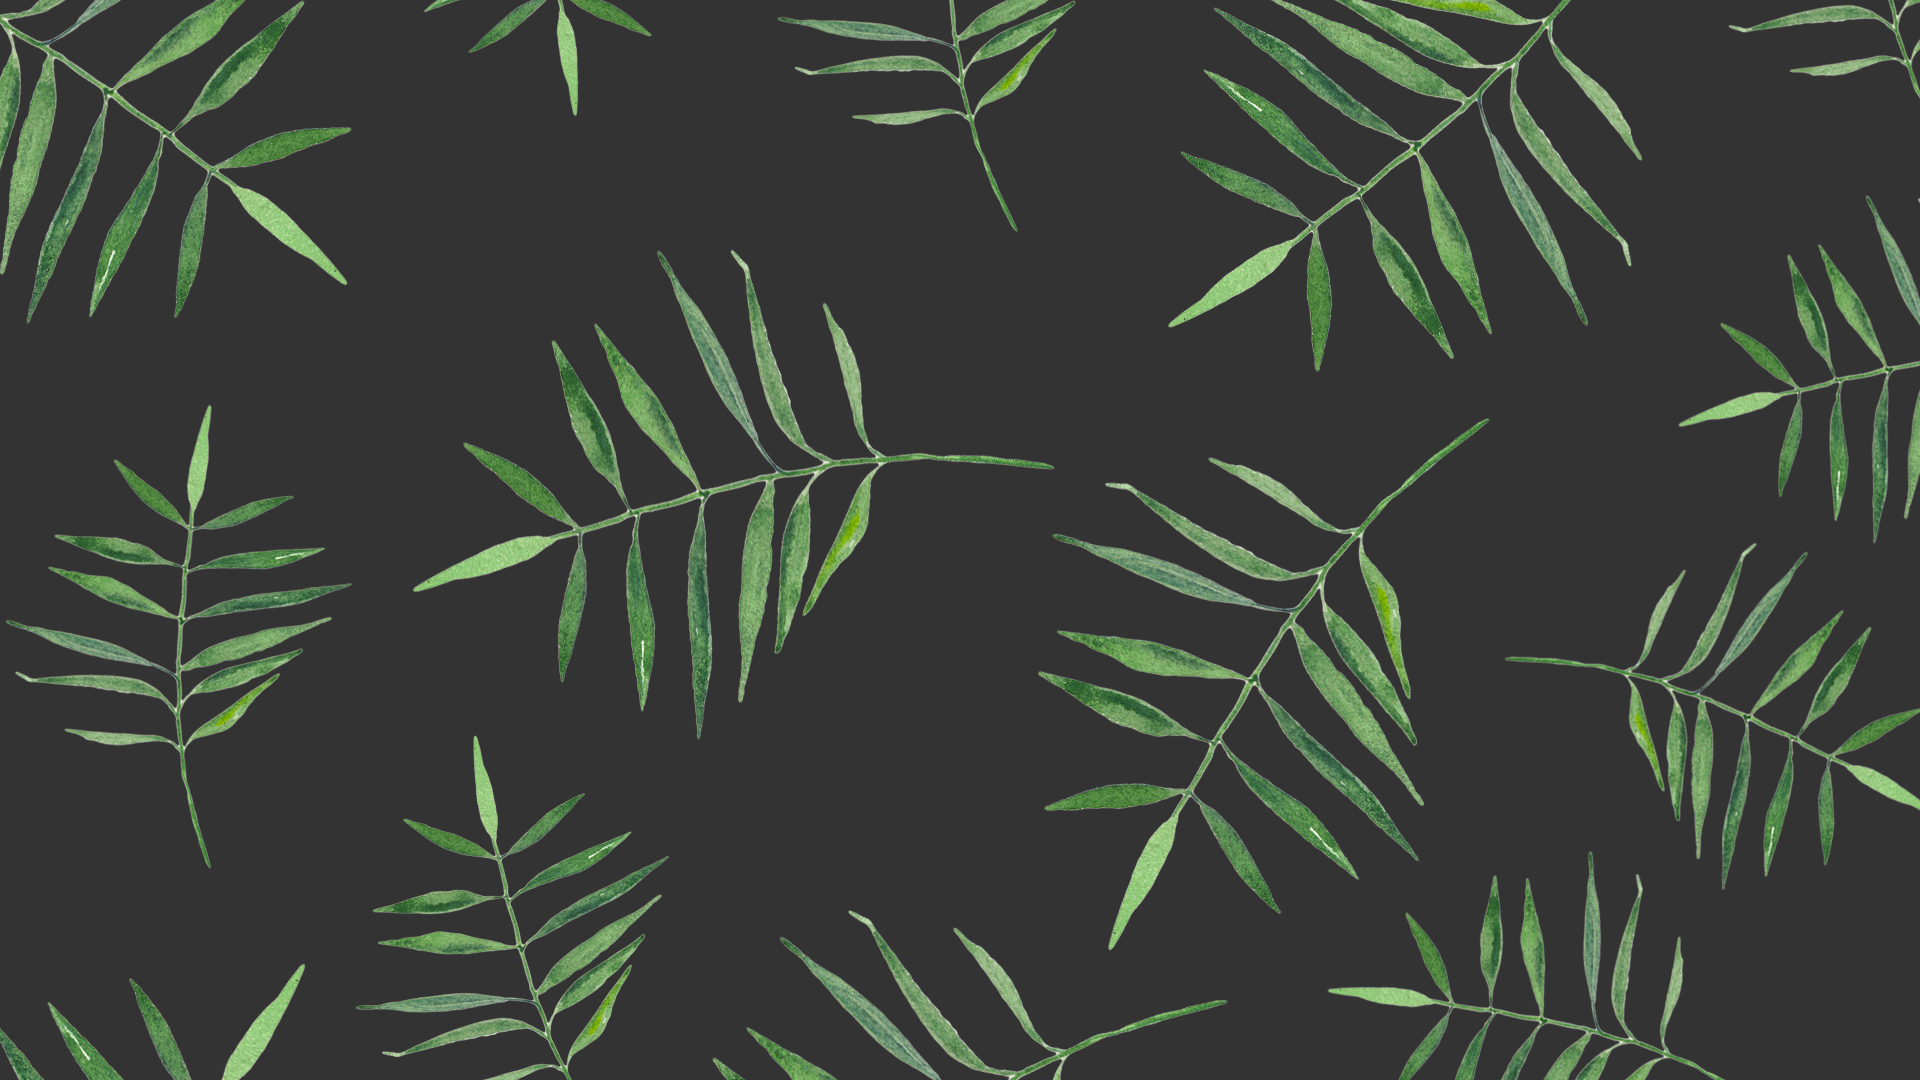
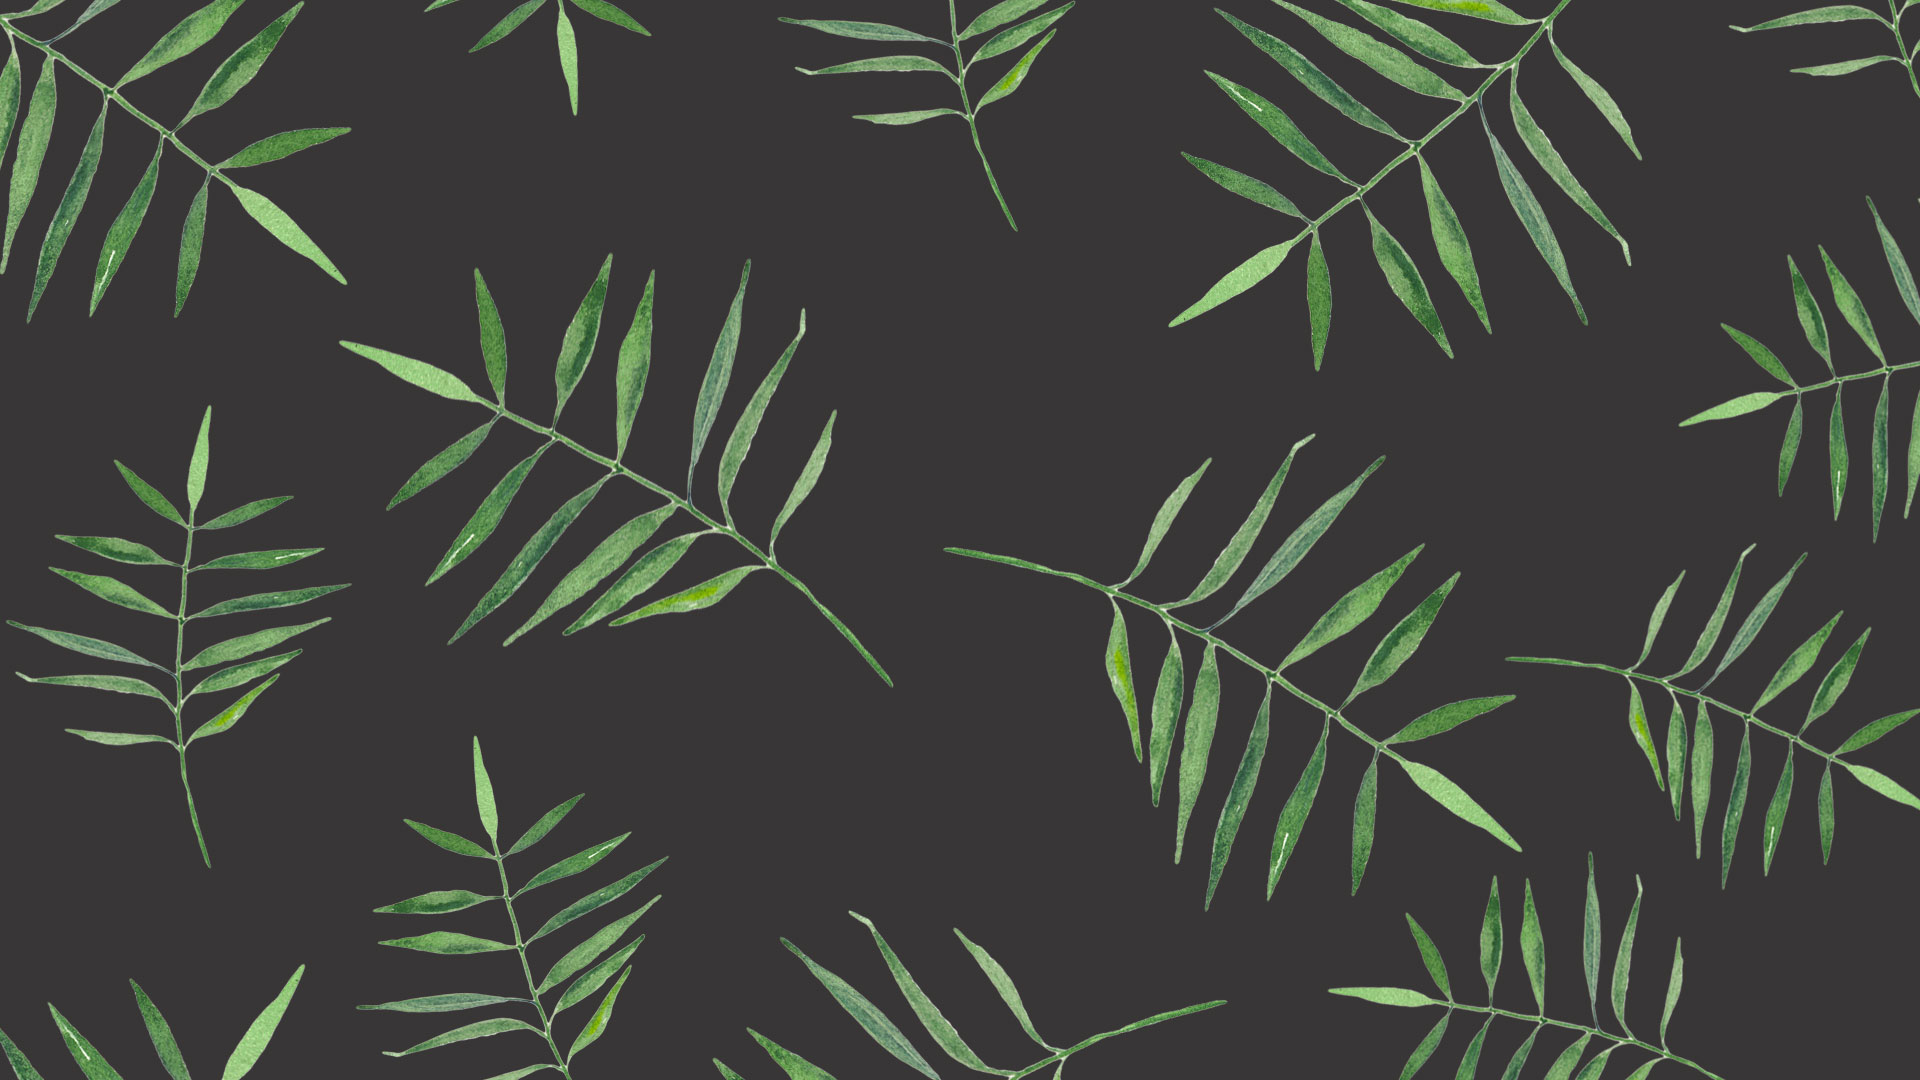
back to black

diff --git a/assets/css/main.css b/assets/css/main.css
@@ -788,7 +788,7 @@ body {
 /* Basic */
 
 body {
-    background-image: url("images/pinkleaves.jpg");
+    background-image: url("images/newleaves.jpg");
     background-repeat: repeat;
     background-size: auto, 100% 100%;
     font-family: 'Source Sans Pro', sans-serif;
